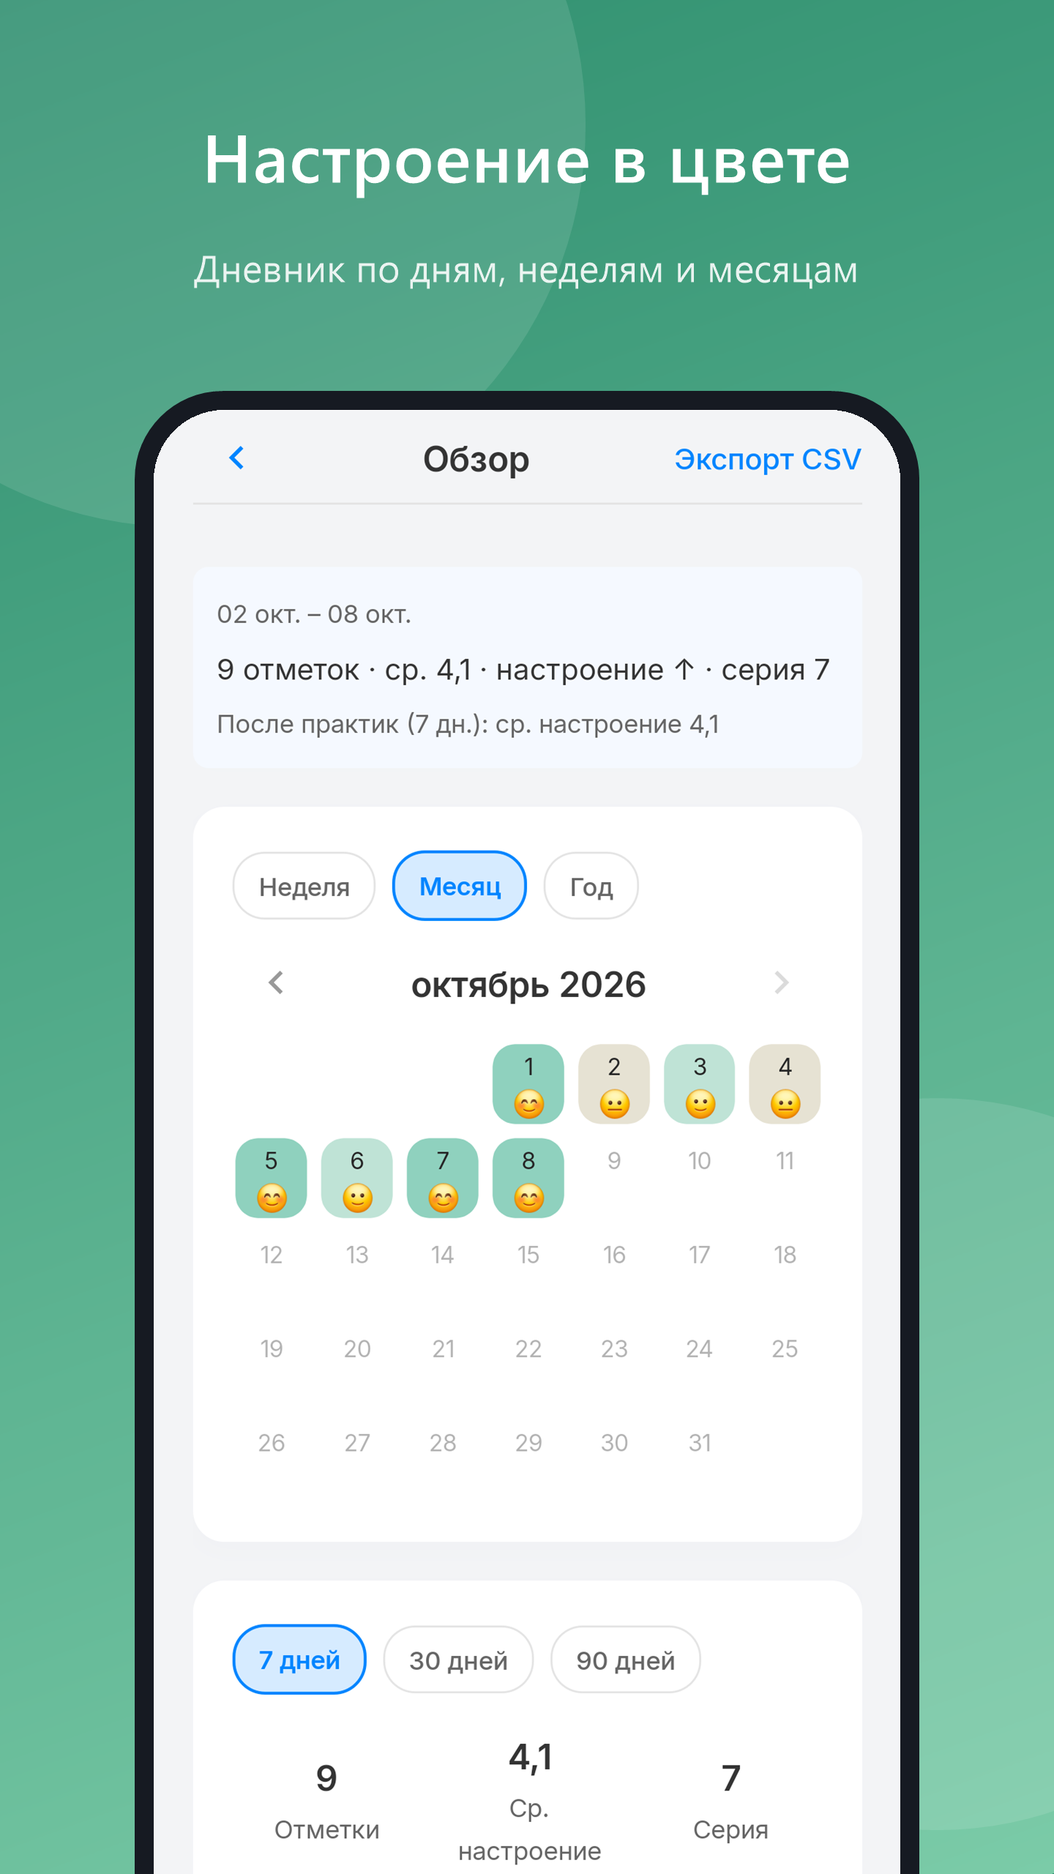
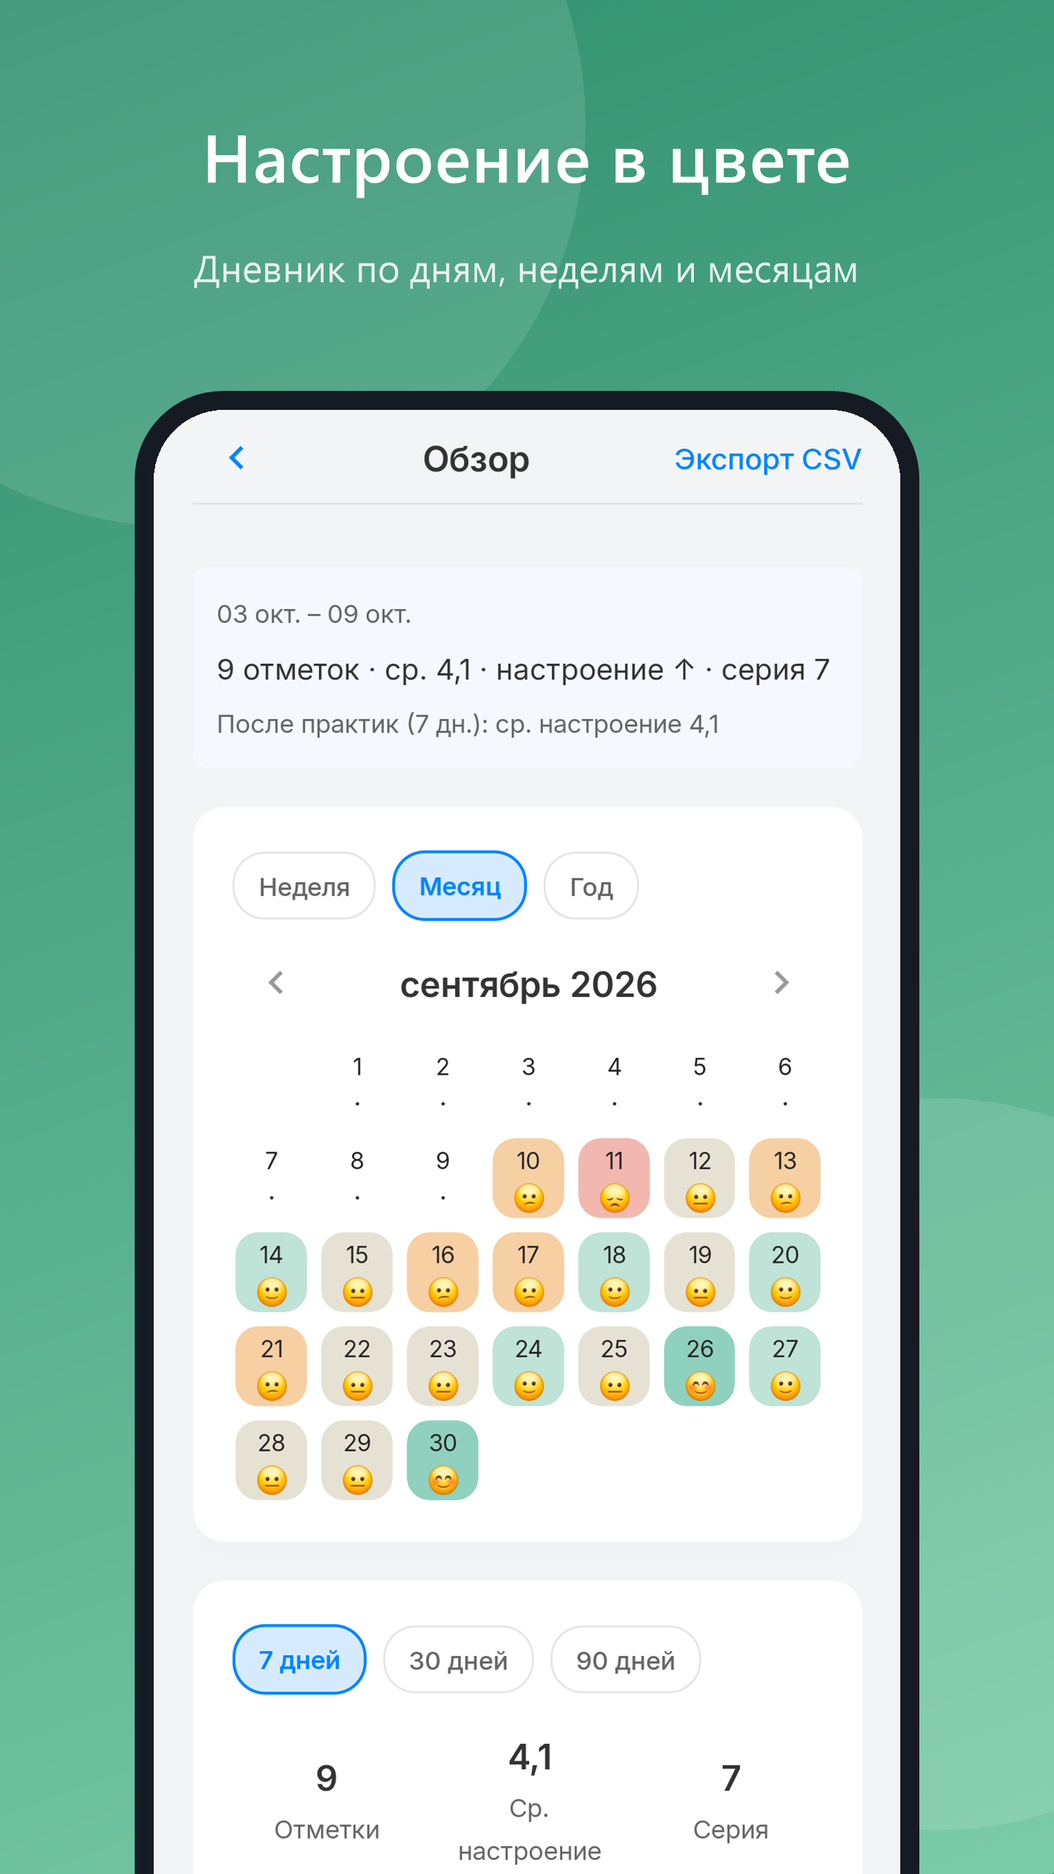
Fresh store screenshots for 2.006; fix week strip cut-off and chart range.

Changed region(s): [[0.2188, 0.5, 0.7812, 0.8125]]

diff --git a/PsychologyApp.Presentation/Widgets/Journal/JournalWeekStripView.xaml b/PsychologyApp.Presentation/Widgets/Journal/JournalWeekStripView.xaml
@@ -26,7 +26,7 @@
             <CollectionView.ItemTemplate>
                 <DataTemplate x:DataType="journal:JournalDayChip">
                     <Border
-                        WidthRequest="44"
+                        WidthRequest="{Binding DayWidth, Source={x:Reference Root}, x:DataType=self:JournalWeekStripView}"
                         HeightRequest="60"
                         Padding="2"
                         BackgroundColor="{AppThemeBinding Light={StaticResource SurfaceLight}, Dark={StaticResource SurfaceDark}}"

diff --git a/PsychologyApp.Presentation/Pages/RunTechniqueSession/BreathingImmersive/BreathingImmersivePage.xaml b/PsychologyApp.Presentation/Pages/RunTechniqueSession/BreathingImmersive/BreathingImmersivePage.xaml
@@ -22,7 +22,7 @@
             IsImmersive="True"
             HorizontalOptions="Center"
             VerticalOptions="Center"
-            Margin="24" />
+            Margin="8,24" />
 
         <Label
             x:Name="CloseIcon"

diff --git a/tools/PsychologyApp.StoreAssets/StoreImages.cs b/tools/PsychologyApp.StoreAssets/StoreImages.cs
@@ -22,17 +22,18 @@ public static class StoreImages
 
     public static readonly Shot[] Shots =
     [
-        // The first eight go to Google Play (at most eight); RuStore takes all ten.
-        new("04-chat-offer.png", "01-chat.png", "Собеседник, который слышит", "Подскажет практику, когда она нужна", Color.FromArgb(0x00, 0x72, 0xDB), Color.FromArgb(0x4F, 0xA3, 0xF0)),
-        new("03-breathing.png", "02-breathing.png", "Дышите вместе с кругом", "Спокойный ритм и счёт вдохов", Color.FromArgb(0x1F, 0x7A, 0x6B), Color.FromArgb(0x5C, 0xB8, 0xA5), 180),
-        new("02-practices.png", "03-practices.png", "Практики на каждый день", "Тело, мысли и чувства — по разделам", Color.FromArgb(0x00, 0x72, 0xDB), Color.FromArgb(0x4F, 0xA3, 0xF0)),
-        new("10b-month.png", "04-mood-calendar.png", "Настроение в цвете", "Дневник по дням, неделям и месяцам", Color.FromArgb(0x2F, 0x8F, 0x6F), Color.FromArgb(0x7B, 0xCB, 0xA8)),
-        new("10d-chart.png", "05-mood-chart.png", "Видно, что помогает", "Отметки практик на графике настроения", Color.FromArgb(0x00, 0x5F, 0xB8), Color.FromArgb(0x3E, 0x92, 0xE0), 650),
-        new("06-body-new.png", "06-body.png", "Связь тела и эмоций", "Что могло стоять за ощущением в теле", Color.FromArgb(0x1B, 0x6F, 0xA8), Color.FromArgb(0x5F, 0xB0, 0xD8)),
-        new("08-prayers.png", "07-prayers.png", "Молитвы под рукой", "Утренние, покаянные и основные", Color.FromArgb(0x3F, 0x4F, 0xA8), Color.FromArgb(0x84, 0x92, 0xD8)),
-        new("09b-quotes-wisdom.png", "08-quotes.png", "Цитаты на каждый день", "Мудрость и мотивация, избранное и поиск", Color.FromArgb(0xA8, 0x62, 0x1B), Color.FromArgb(0xDC, 0x98, 0x4E)),
-        new("07-profile.png", "09-profile.png", "Ваш путь — на одном экране", "Практики, серия дней, недельный обзор", Color.FromArgb(0x0B, 0x5F, 0xA8), Color.FromArgb(0x5A, 0xA6, 0xE6)),
-        new("05-tests.png", "10-tests.png", "Тесты с понятным итогом", "Короткие опросники и рекомендации", Color.FromArgb(0x3B, 0x6E, 0xC4), Color.FromArgb(0x86, 0xA8, 0xE6))
+        // The first eight go to Google Play (at most eight); RuStore takes all eleven.
+        new("chat.png", "01-chat.png", "Собеседник, который слышит", "Подскажет практику, когда она нужна", Color.FromArgb(0x00, 0x72, 0xDB), Color.FromArgb(0x4F, 0xA3, 0xF0)),
+        new("breathfs1.png", "02-breathing.png", "Дышите вместе с кругом", "Спокойный ритм, экран только для дыхания", Color.FromArgb(0x14, 0x5A, 0x6E), Color.FromArgb(0x2F, 0x9C, 0x92), 84),
+        new("practices.png", "03-practices.png", "Практики на каждый день", "Тело, мысли и чувства — по разделам", Color.FromArgb(0x00, 0x72, 0xDB), Color.FromArgb(0x4F, 0xA3, 0xF0)),
+        new("calsept.png", "04-mood-calendar.png", "Настроение в цвете", "Дневник по дням, неделям и месяцам", Color.FromArgb(0x2F, 0x8F, 0x6F), Color.FromArgb(0x7B, 0xCB, 0xA8)),
+        new("chartweek.png", "05-mood-chart.png", "Видно, что помогает", "Отметки практик на графике настроения", Color.FromArgb(0x00, 0x5F, 0xB8), Color.FromArgb(0x3E, 0x92, 0xE0), 660),
+        new("dialog2.png", "06-practice-dialogue.png", "Практика — как разговор", "Те же собеседник и чат, шаг за шагом", Color.FromArgb(0x3B, 0x6E, 0xC4), Color.FromArgb(0x86, 0xA8, 0xE6)),
+        new("body.png", "07-body.png", "Связь тела и эмоций", "Что могло стоять за ощущением в теле", Color.FromArgb(0x1B, 0x6F, 0xA8), Color.FromArgb(0x5F, 0xB0, 0xD8)),
+        new("prayers.png", "08-prayers.png", "Молитвы под рукой", "Утренние, покаянные и основные", Color.FromArgb(0x3F, 0x4F, 0xA8), Color.FromArgb(0x84, 0x92, 0xD8)),
+        new("quotes.png", "09-quotes.png", "Цитаты на каждый день", "Мудрость и мотивация, избранное и поиск", Color.FromArgb(0xA8, 0x62, 0x1B), Color.FromArgb(0xDC, 0x98, 0x4E)),
+        new("profile.png", "10-profile.png", "Ваш путь — на одном экране", "Практики, серия дней, недельный обзор", Color.FromArgb(0x0B, 0x5F, 0xA8), Color.FromArgb(0x5A, 0xA6, 0xE6)),
+        new("tests.png", "11-tests.png", "Тесты с понятным итогом", "Короткие опросники и рекомендации", Color.FromArgb(0x3B, 0x6E, 0xC4), Color.FromArgb(0x86, 0xA8, 0xE6))
     ];
 
     public static void Compose(string rawDir, string outDir)

diff --git a/PsychologyApp.Presentation/Widgets/BreathingPacer/BreathingPacerView.xaml.cs b/PsychologyApp.Presentation/Widgets/BreathingPacer/BreathingPacerView.xaml.cs
@@ -14,6 +14,7 @@ public partial class BreathingPacerView : ContentView
     private const double HaloLagSeconds = 0.45;
 
     private const int ImmersiveStartDelayMs = 900;
+    private const double MaxImmersiveSize = 390;
 
     public static readonly BindableProperty FullscreenCommandProperty = BindableProperty.Create(
         nameof(FullscreenCommand), typeof(ICommand), typeof(BreathingPacerView), null,
@@ -64,6 +65,30 @@ public partial class BreathingPacerView : ContentView
         FullscreenButton.IsVisible = FullscreenCommand is not null && !IsImmersive;
     }
 
+    /// <summary>
+    /// On the full-screen page the circle follows the width it is given: the halo, which grows past the circle when it is full, must stay inside
+    /// the page, so a narrow screen gets a smaller circle instead of a clipped halo.
+    /// </summary>
+    private void FitCircleToWidth()
+    {
+        if (!IsImmersive)
+        {
+            return;
+        }
+
+        double host = Width > 0 ? Math.Min(Width, MaxImmersiveSize) : MaxImmersiveSize;
+        double halo = host * 0.78;
+        double circle = host * 0.68;
+        CircleHost.WidthRequest = host;
+        CircleHost.HeightRequest = host;
+        Halo.WidthRequest = halo;
+        Halo.HeightRequest = halo;
+        Halo.StrokeShape = new Microsoft.Maui.Controls.Shapes.RoundRectangle { CornerRadius = halo / 2 };
+        Circle.WidthRequest = circle;
+        Circle.HeightRequest = circle;
+        Circle.StrokeShape = new Microsoft.Maui.Controls.Shapes.RoundRectangle { CornerRadius = circle / 2 };
+    }
+
     private void ApplyImmersive(bool immersive)
     {
         UpdateFullscreenButton();
@@ -77,15 +102,9 @@ public partial class BreathingPacerView : ContentView
         Card.StrokeThickness = 0;
         Card.Padding = 0;
         Card.Margin = 0;
-        CircleHost.WidthRequest = 390;
-        CircleHost.HeightRequest = 390;
         ToggleButton.Variant = "Secondary";
-        Halo.WidthRequest = 300;
-        Halo.HeightRequest = 300;
-        Halo.StrokeShape = new Microsoft.Maui.Controls.Shapes.RoundRectangle { CornerRadius = 150 };
-        Circle.WidthRequest = 260;
-        Circle.HeightRequest = 260;
-        Circle.StrokeShape = new Microsoft.Maui.Controls.Shapes.RoundRectangle { CornerRadius = 130 };
+        SizeChanged += (_, _) => FitCircleToWidth();
+        FitCircleToWidth();
         CountLabel.FontSize = 48;
         CycleLabel.TextColor = Color.FromArgb("#CCFFFFFF");
         Render(BreathingPattern.SmallScale, 0);

diff --git a/PsychologyApp.Presentation.Tests/JournalMoodLoaderTests.cs b/PsychologyApp.Presentation.Tests/JournalMoodLoaderTests.cs
@@ -92,6 +92,38 @@ public sealed class JournalMoodLoaderTests
         Assert.Equal(7, snapshot.WeekDays.Count);
     }
 
+
+    [Fact]
+    public async Task LoadAsync_ChartShowsOnlyTheChosenRange_EvenWhenTheCalendarFetchedMore()
+    {
+        Mock<IUserProgressService> progress = new();
+        DateTime now = DateTime.UtcNow;
+        progress
+            .Setup(p => p.GetMoodsAsync(
+                It.IsAny<DateTime?>(),
+                It.IsAny<DateTime?>(),
+                It.IsAny<int>(),
+                It.IsAny<CancellationToken>()))
+            .ReturnsAsync(new List<MoodEntryDTO>
+            {
+                new() { MoodEntryId = 4, MoodLevel = 4, RecordedAt = now },
+                new() { MoodEntryId = 3, MoodLevel = 3, RecordedAt = now.AddDays(-3) },
+                new() { MoodEntryId = 2, MoodLevel = 2, RecordedAt = now.AddDays(-12) },
+                new() { MoodEntryId = 1, MoodLevel = 5, RecordedAt = now.AddDays(-25) }
+            });
+        progress
+            .Setup(p => p.GetRecentTechniqueCompletionsAsync(It.IsAny<int>(), It.IsAny<CancellationToken>()))
+            .ReturnsAsync([]);
+
+        DateOnly earlier = DateOnly.FromDateTime(DateTime.Today.AddDays(-25));
+        JournalMoodLoader loader = new(progress.Object);
+        JournalMoodSnapshot snapshot = await loader.LoadAsync(
+            rangeDays: 7,
+            monthCursor: new DateOnly(earlier.Year, earlier.Month, 1),
+            calendarScale: JournalCalendarScale.Month);
+
+        Assert.Equal(2, snapshot.ChartPoints.Count);
+    }
     [Fact]
     public async Task LoadAsync_Accepts90DayRange()
     {

diff --git a/PsychologyApp.Presentation/Widgets/Journal/JournalWeekStripView.xaml.cs b/PsychologyApp.Presentation/Widgets/Journal/JournalWeekStripView.xaml.cs
@@ -8,6 +8,28 @@ public partial class JournalWeekStripView : ContentView
     public JournalWeekStripView()
     {
         InitializeComponent();
+        SizeChanged += (_, _) => FitDays();
+    }
+
+    public static readonly BindableProperty DayWidthProperty =
+        BindableProperty.Create(nameof(DayWidth), typeof(double), typeof(JournalWeekStripView), 44d);
+
+    /// <summary>The width of one day: all seven days share the strip, so none is pushed out of sight on a narrow screen.</summary>
+    public double DayWidth
+    {
+        get => (double)GetValue(DayWidthProperty);
+        private set => SetValue(DayWidthProperty, value);
+    }
+
+    private void FitDays()
+    {
+        if (Width <= 0)
+        {
+            return;
+        }
+
+        const double Gap = 10;
+        DayWidth = Math.Clamp((Width - 6 * Gap) / 7 - 1, 28, 56);
     }
 
     public static readonly BindableProperty CaptionTextProperty =

diff --git a/PsychologyApp.Presentation/Features/ManageJournal/JournalMoodLoader.cs b/PsychologyApp.Presentation/Features/ManageJournal/JournalMoodLoader.cs
@@ -122,7 +122,9 @@ public sealed class JournalMoodLoader(IUserProgressService userProgressService, 
             .Select(ToTimelineItem)
             .ToList();
 
+        // The calendar may have fetched more than the chosen range (a month or a year back): the chart shows the range only. A single chosen day keeps its own points.
         List<MoodChartPoint> points = FilterForDay(orderedNewestFirst, filterDay)
+            .Where(entry => filterDay is not null || DateOnly.FromDateTime(entry.RecordedAt.ToLocalTime()) >= rangeStart)
             .OrderBy(entry => entry.RecordedAt)
             .Select(entry => new MoodChartPoint(entry.RecordedAt.ToLocalTime(), entry.MoodLevel))
             .ToList();

diff --git a/tools/PsychologyApp.StoreAssets/DemoBackup.cs b/tools/PsychologyApp.StoreAssets/DemoBackup.cs
@@ -119,7 +119,7 @@ public static class DemoBackup
     /// <summary>A talk that ends on an offer of a practice: the first thing shown in the chat.</summary>
     private static BackupChatSessionDTO PresentationChat(DateTime nowUtc) => Talk(
         nowUtc.AddMinutes(-14),
-        "Волнение перед презентацией",
+        "Перед презентацией",
         [
             Say("Завтра важная презентация, и я не могу перестать об этом думать"),
             Say("Боюсь, что всё пойдёт не так и меня осудят"),

diff --git a/README.md b/README.md
@@ -68,17 +68,17 @@
 <table>
 <tr>
 <td align="center" width="20%"><img src="store/screenshots/01-chat.png" alt="Чат-собеседник" width="190"><br><sub><b>Собеседник, который слышит</b></sub></td>
-<td align="center" width="20%"><img src="store/screenshots/02-breathing.png" alt="Дыхательный круг" width="190"><br><sub><b>Дышите вместе с кругом</b></sub></td>
+<td align="center" width="20%"><img src="store/screenshots/02-breathing.png" alt="Дыхание на весь экран" width="190"><br><sub><b>Дышите вместе с кругом</b></sub></td>
 <td align="center" width="20%"><img src="store/screenshots/03-practices.png" alt="Каталог практик" width="190"><br><sub><b>Практики на каждый день</b></sub></td>
 <td align="center" width="20%"><img src="store/screenshots/04-mood-calendar.png" alt="Календарь настроения" width="190"><br><sub><b>Настроение в цвете</b></sub></td>
 <td align="center" width="20%"><img src="store/screenshots/05-mood-chart.png" alt="График настроения" width="190"><br><sub><b>Видно, что помогает</b></sub></td>
 </tr>
 <tr>
-<td align="center"><img src="store/screenshots/06-body.png" alt="Связь тела и эмоций" width="190"><br><sub><b>Связь тела и эмоций</b></sub></td>
-<td align="center"><img src="store/screenshots/07-prayers.png" alt="Молитвы" width="190"><br><sub><b>Молитвы под рукой</b></sub></td>
-<td align="center"><img src="store/screenshots/08-quotes.png" alt="Цитаты" width="190"><br><sub><b>Цитаты на каждый день</b></sub></td>
-<td align="center"><img src="store/screenshots/09-profile.png" alt="Профиль и недельный обзор" width="190"><br><sub><b>Ваш путь на одном экране</b></sub></td>
-<td align="center"><img src="store/screenshots/10-tests.png" alt="Тесты" width="190"><br><sub><b>Тесты с понятным итогом</b></sub></td>
+<td align="center"><img src="store/screenshots/07-body.png" alt="Связь тела и эмоций" width="190"><br><sub><b>Связь тела и эмоций</b></sub></td>
+<td align="center"><img src="store/screenshots/08-prayers.png" alt="Молитвы" width="190"><br><sub><b>Молитвы под рукой</b></sub></td>
+<td align="center"><img src="store/screenshots/09-quotes.png" alt="Цитаты" width="190"><br><sub><b>Цитаты на каждый день</b></sub></td>
+<td align="center"><img src="store/screenshots/10-profile.png" alt="Профиль и недельный обзор" width="190"><br><sub><b>Ваш путь на одном экране</b></sub></td>
+<td align="center"><img src="store/screenshots/11-tests.png" alt="Тесты" width="190"><br><sub><b>Тесты с понятным итогом</b></sub></td>
 </tr>
 </table>
 

diff --git a/CHANGELOG.md b/CHANGELOG.md
@@ -9,6 +9,7 @@ This project follows a Keep a Changelog style and Semantic Versioning principles
 ## [2.006] - 2026-10-09
 
 ### Added
+- Store images renewed for version 2.006: eleven shots of the current interface (full-screen breathing, the practice as a conversation with the same header, the chart showing only the chosen week, the new names), on a fresh demo month; the first eight fit Google Play. Fix found while shooting: the week strip in the profile and the journal cut off the seventh day on a narrow screen; the seven days now share the width. The mood chart no longer draws a month of points when the week is chosen after the month calendar was opened.
 - Fix: the faces of the mood strip no longer keep a blue highlight after another face is chosen (the selection was a trigger on the background of a border, which does not always give the background back; the chosen face now gets a style and the others the plain one). Checked on a phone: five choices in a row leave one highlighted face.
 - Fix: a disabled button no longer fades to nothing: the words turn grey and stay legible ("Finish", "Back"), the button dims less than before; a test checks the contrast. Checked on a phone.
 - Fix: the 0-10 scales of the forms show "0 - none" and "10 - very strong" everywhere, not only where the kind of the scale was set explicitly.

diff --git a/store/listing-ru.md b/store/listing-ru.md
@@ -107,8 +107,8 @@
 Ключевые слова к ним: психосоматика, молитвы, утреннее правило, цитаты, мудрость, мотивация.
 
 ## Порядок скриншотов
-Google Play (до 8): 01 чат, 02 дыхание, 03 практики, 04 календарь, 05 график, 06 тело, 07 молитвы, 08 цитаты.
-RuStore (до 10): те же восемь плюс 09 профиль и 10 тесты.
+Google Play (до 8): 01 чат, 02 дыхание, 03 практики, 04 календарь, 05 график, 06 практика-диалог, 07 тело, 08 молитвы.
+RuStore (до 10): первые десять (09 цитаты, 10 профиль); 11 тесты — запасной.
 
 ## Что сказано в самом приложении (можно повторять в описании)
 Приложение на первом экране само называет себя «Офлайн», «Без осуждения», «На устройстве»: «Спокойствие рядом — даже без интернета». Если «Alice AI» требует сети, формулировку «даже без интернета» надо проверить и уточнить.
